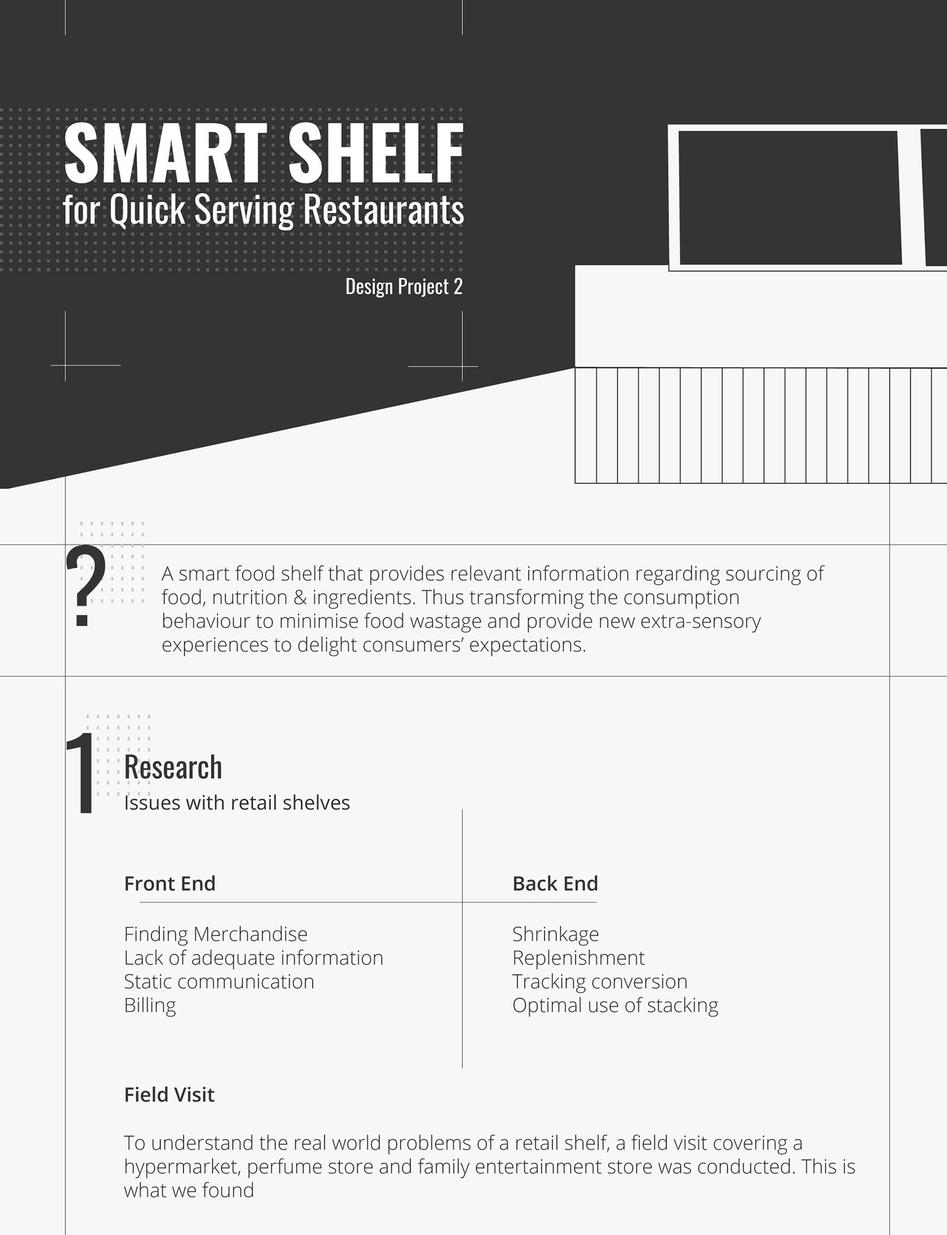
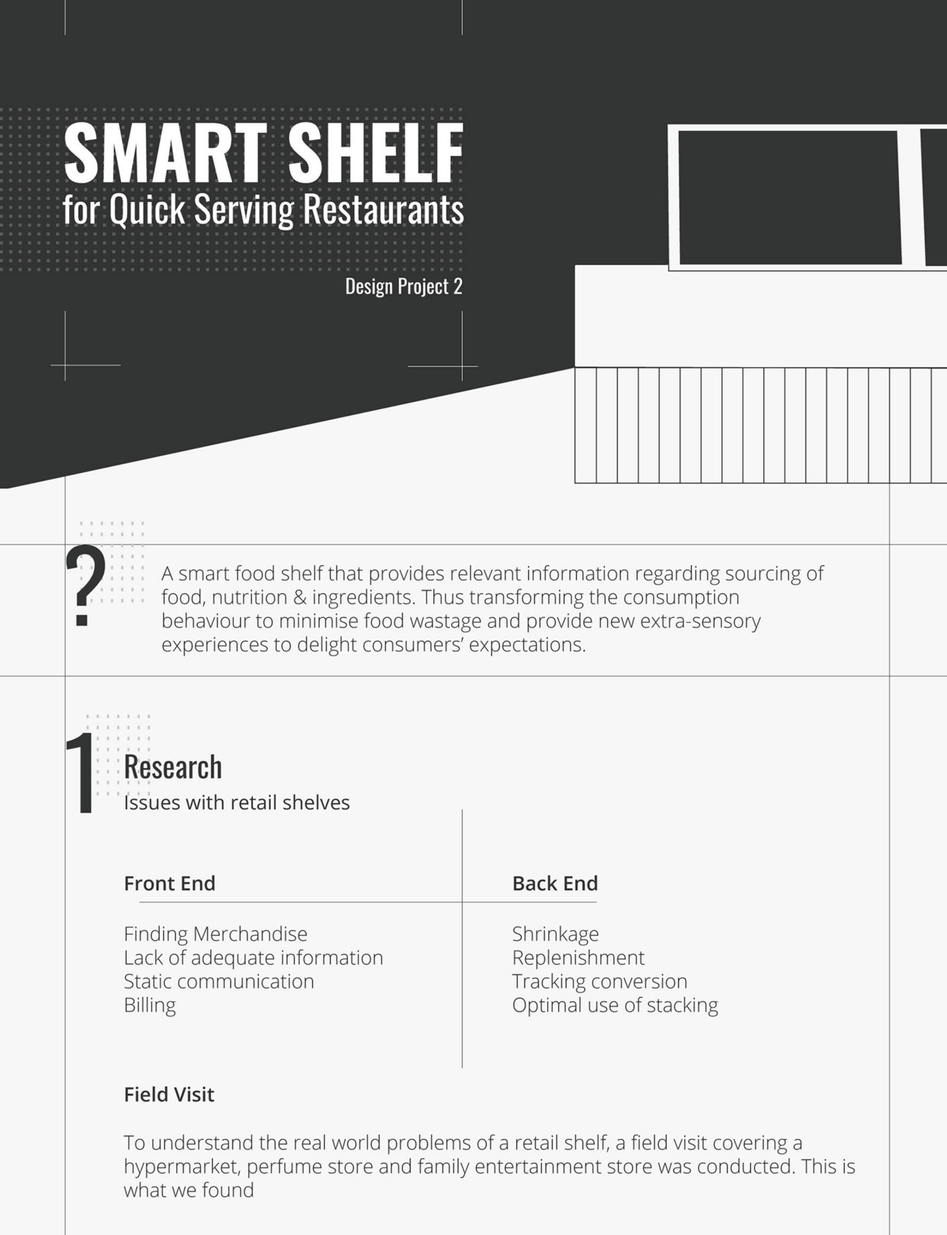
smart shelf rearrange for 1440p

diff --git a/css/smart-shelf.css b/css/smart-shelf.css
@@ -1,1 +1,1 @@
-.version.smart_shelf{color:#00000E;background-color:#D3C0C5;}#page{border-color:#000000;z-index:1;background-image:none;margin-left:auto;margin-right:auto;border-width:0px;background-color:transparent;}#u36178{width:60px;z-index:2;position:relative;min-height:60px;}#u25351{background-color:#F7F7F7;margin-right:-10000px;border-radius:20px;z-index:3;position:relative;}#u25360{background-color:#323434;z-index:4;position:relative;}#u24942-9{vertical-align:top;display:block;z-index:5;position:relative;}#u24973{background-color:transparent;z-index:14;position:relative;}#u24993{background-color:transparent;z-index:16;position:relative;}#u25532{background-color:transparent;z-index:18;position:relative;}#u25674{background-color:transparent;z-index:20;position:relative;}#u25710{background-color:transparent;z-index:22;position:relative;}#u25753{background-color:transparent;z-index:24;position:relative;}#u36427,#u36449,#u36487,#u36525{background-color:transparent;position:relative;}#u28734{margin-right:-10000px;background-color:transparent;position:relative;}.html{background-color:#D8D8D8;}#top,body{position:relative;}@media (min-width: 1921px), print{#muse_css_mq{background-color:#FFFFFF;}#bp_infinity.active{display:block;}#page{width:1920px;min-height:710px;}#pu36178{z-index:2;width:0.01px;margin-right:-10000px;margin-top:-78px;margin-left:25px;}#u36178{margin-left:913px;}#top{margin-left:59px;margin-top:18px;}#pu25351{z-index:3;width:0.01px;margin-top:7px;}#u25351{width:1870px;padding-bottom:3px;}#u28674{z-index:27;width:104px;background-color:transparent;position:relative;margin-right:-10000px;margin-top:25px;left:25px;}#u25360{width:1599px;padding-bottom:121px;margin-right:-10000px;margin-top:-5px;left:134px;}#u24942-9{margin-right:-10000px;margin-top:402px;left:56px;}#u24973{width:1598px;margin-right:-10000px;margin-top:683px;left:135px;}#pu24993{z-index:16;width:0.01px;margin-left:135px;margin-top:-1px;}#u24993{width:1598px;margin-right:-10000px;}#u25532{width:1598px;margin-right:-10000px;margin-top:537px;}#u25674{width:1598px;margin-right:-10000px;margin-top:3878px;}#u25710{width:1598px;margin-right:-10000px;margin-top:3474px;}#u28734{z-index:40;width:180px;-webkit-transform:matrix(0,1,-1,0,177,-3);-ms-transform:matrix(0,1,-1,0,177,-3);transform:matrix(0,1,-1,0,177,-3);margin-top:634px;left:1438px;}#u25753{width:1598px;margin-left:135px;margin-top:3617px;}#pu36427{z-index:29;width:0.01px;margin-left:135px;}#u36427{z-index:29;width:1595px;margin-right:-10000px;}#u36449{z-index:32;width:1595px;margin-right:-10000px;margin-top:2370px;}#u36471{z-index:34;width:768px;min-height:432px;border-width:0px;border-color:transparent;background-color:transparent;position:relative;margin-right:-10000px;margin-top:1999px;left:1302px;}#pu36487{z-index:35;width:0.01px;margin-left:135px;margin-top:86px;}#u36487{z-index:35;width:1595px;margin-right:-10000px;margin-top:383px;}#u36509{z-index:37;width:768px;min-height:432px;border-width:0px;border-color:transparent;background-color:transparent;position:relative;margin-right:-10000px;left:1289px;}#u36525{z-index:38;width:1595px;margin-left:135px;margin-top:436px;}#u26558{z-index:26;width:1800px;min-height:169px;border-width:0px;border-color:transparent;background-color:transparent;position:relative;margin-right:-10000px;margin-top:3157px;left:2305px;}.css_verticalspacer .verticalspacer{height:calc(100vh - 21998px);}body{min-width:1920px;padding-bottom:50px;}}@media (min-width: 1441px) and (max-width: 1920px){#muse_css_mq{background-color:#000780;}#bp_1920.active{display:block;}#page{min-height:710px;width:100%;max-width:1920px;}#pu36178{z-index:2;margin-right:-10000px;margin-top:-78px;width:97.4%;margin-left:1.31%;}#u36178{margin-left:48.83%;}#top{margin-top:18px;margin-left:3.16%;}#pu25351{z-index:3;margin-top:2px;width:100%;}#u25351{padding-bottom:199px;width:100%;}#u28674{z-index:27;background-color:transparent;position:relative;margin-right:-10000px;margin-top:30px;width:5.57%;left:1.34%;}#ppu25360{z-index:0;padding-bottom:0px;margin-right:-10000px;margin-top:5px;width:85.51%;}#pu25360{z-index:4;width:100%;}#u25360{padding-bottom:391px;margin-right:-10000px;width:100%;left:0%;margin-left:8.39%;}#u24942-9{margin-right:-10000px;margin-top:160px;width:82.81%;left:7.32%;}#u24973{margin-right:-10000px;margin-top:443px;width:99.94%;left:0%;margin-left:8.39%;}#u24973_img{padding-bottom:5.819774718397998%;width:100%;}#u24993{margin-right:-10000px;margin-top:2497px;width:99.94%;margin-left:8.51%;left:-2px;}#pu25532{z-index:18;width:99.94%;left:0%;margin-left:8.39%;}#u25532{margin-right:-10000px;width:100%;}#u25674{margin-right:-10000px;margin-top:3341px;width:100%;}#u25710{margin-right:-10000px;margin-top:6554px;width:100%;}#u25753{margin-top:1px;width:99.94%;left:0%;margin-left:8.39%;}#u36427{z-index:29;width:99.75%;left:0%;margin-left:8.45%;}#u36449{z-index:32;width:99.75%;left:0%;margin-left:8.39%;}#u36471{z-index:34;min-height:436px;border-width:0px;border-color:transparent;background-color:transparent;position:relative;width:48.04%;left:0%;margin-left:34.4%;}#u36487{z-index:35;margin-top:32px;width:99.75%;left:0%;margin-left:8.39%;}#u36509{z-index:37;min-height:436px;border-width:0px;border-color:transparent;background-color:transparent;position:relative;width:48.04%;left:0%;margin-left:34.4%;}#u36525{z-index:38;width:99.75%;left:0%;margin-left:8.45%;}#u28734{z-index:40;-webkit-transform:matrix(0,1,-1,0,177,-3);-ms-transform:matrix(0,1,-1,0,177,-3);transform:matrix(0,1,-1,0,177,-3);margin-top:21932px;width:9.63%;left:84.12%;}#u28674_img,#u24993_img,#u25532_img,#u25674_img,#u25710_img,#u25753_img,#u36427_img,#u36449_img,#u36487_img,#u36525_img,#u28734_img{width:100%;}#u26558{z-index:26;min-height:173px;border-width:0px;border-color:transparent;background-color:transparent;position:relative;margin-right:-10000px;margin-top:3157px;width:93.75%;left:120.06%;}.css_verticalspacer .verticalspacer{height:calc(100vh - 22170px);}body{overflow-x:hidden;padding-bottom:24px;}}@media (min-width: 961px) and (max-width: 1440px){#muse_css_mq{background-color:#0005a0;}#bp_1440.active{display:block;}#page{min-height:777px;width:100%;max-width:1440px;}#u36178{margin-right:-10000px;left:51.74%;}#u25351{padding-bottom:20px;margin-top:19px;width:97.44%;left:1.32%;}#u28674{z-index:26;background-color:transparent;position:relative;margin-right:-10000px;margin-top:31px;width:5.56%;left:1.36%;}#ppu25360{z-index:0;margin-right:-10000px;width:85.46%;margin-left:7.2%;}#pu25360{z-index:4;width:100%;}#u25360{padding-bottom:478px;margin-right:-10000px;width:100%;}#u24942-9{margin-right:-10000px;margin-top:98px;width:93.42%;left:5.76%;}#u24973{margin-right:-10000px;margin-top:304px;width:100%;}#u24973_img{width:99.92%;}#u24993{margin-right:-10000px;margin-top:1921px;width:100%;}#pu25532{z-index:18;width:100%;}#u25532{margin-right:-10000px;width:100%;}#u25674{margin-right:-10000px;margin-top:2526px;width:100%;}#u36427{z-index:28;width:99.75%;}#u36471{z-index:33;min-height:436px;border-width:0px;border-color:transparent;background-color:transparent;margin-top:47px;position:relative;width:64.06%;margin-left:18.02%;}#u36449{z-index:31;width:99.75%;}#u36509{z-index:36;min-height:436px;border-width:0px;border-color:transparent;background-color:transparent;position:relative;width:64.06%;margin-left:18.19%;}#u36487{z-index:34;width:99.75%;}#u36525{z-index:37;margin-top:22px;width:99.75%;}#top{margin-right:-10000px;width:22px;left:4.38%;}#u28734{z-index:39;-webkit-transform:matrix(0,1,-1,0,132,-3);-ms-transform:matrix(0,1,-1,0,132,-3);transform:matrix(0,1,-1,0,132,-3);margin-top:14467px;width:9.38%;left:83.2%;}#u28674_img,#u24993_img,#u25532_img,#u25674_img,#u25710,#u25710_img,#u25753,#u25753_img,#u36427_img,#u36449_img,#u36487_img,#u36525_img,#u28734_img{width:100%;}.css_verticalspacer .verticalspacer{height:calc(100vh - 16854px);}body{overflow-x:hidden;padding-bottom:20px;}}@media (min-width: 769px) and (max-width: 960px){#muse_css_mq{background-color:#0003c0;}#bp_960.active{display:block;}#page{min-height:710px;width:100%;max-width:960px;}#page_position_content{margin-top:-66px;width:100%;}#u36178{margin-left:39.07%;}#top{margin-top:6px;margin-left:4.38%;}#pu25351{z-index:3;margin-top:-5px;width:97.4%;margin-left:1.36%;}#u25351{padding-bottom:125px;width:100%;}#u28674{z-index:26;background-color:transparent;position:relative;margin-right:-10000px;margin-top:37px;width:5.57%;left:1.4%;}#ppu25360{z-index:0;margin-right:-10000px;width:85.57%;margin-left:7.17%;}#pu25360{z-index:4;width:100%;}#u25360{padding-bottom:493px;margin-right:-10000px;width:100%;}#u24942-9{margin-right:-10000px;margin-top:85px;width:93.25%;left:3.51%;}#u24973{margin-right:-10000px;margin-top:276px;width:99.88%;}#pu25532{z-index:18;margin-top:1px;width:99.88%;}#u25532{margin-right:-10000px;width:100%;}#u25674{margin-right:-10000px;margin-top:1679px;width:100%;}#u25710{margin-right:-10000px;margin-top:3290px;width:100%;}#u24993,#u25753{width:99.88%;}#u36427{z-index:28;margin-top:7px;width:99.63%;}#u36449{z-index:31;width:99.75%;}#u36471{z-index:33;min-height:436px;border-width:0px;border-color:transparent;background-color:transparent;position:relative;width:96%;margin-left:2%;}#u36487{z-index:34;width:99.75%;}#u36509{z-index:36;min-height:436px;border-width:0px;border-color:transparent;background-color:transparent;position:relative;width:96%;margin-left:2%;}#u36525{z-index:37;width:99.75%;}#u28734{z-index:39;-webkit-transform:matrix(0,1,-1,0,88,-2);-ms-transform:matrix(0,1,-1,0,88,-2);transform:matrix(0,1,-1,0,88,-2);margin-top:11554px;width:9.63%;left:84.07%;}#u28674_img,#u24973_img,#u24993_img,#u25532_img,#u25674_img,#u25710_img,#u25753_img,#u36427_img,#u36449_img,#u36487_img,#u36525_img,#u28734_img{width:100%;}.css_verticalspacer .verticalspacer{height:calc(100vh - 11667px);}body{overflow-x:hidden;padding-bottom:12px;}}@media (min-width: 481px) and (max-width: 768px){#muse_css_mq{background-color:#000300;}#bp_768.active{display:block;}#page{min-height:710px;width:100%;max-width:768px;}#u36178{margin-right:-10000px;left:51.7%;}#u25351{padding-bottom:0px;margin-top:10px;width:97.4%;left:1.31%;}#u25351_position_content{padding-bottom:62px;width:100%;}#pu28674{z-index:26;width:91.32%;margin-left:1.34%;}#u28674{z-index:26;background-color:transparent;position:relative;margin-right:-10000px;margin-top:40px;width:6.15%;}#u25360{padding-bottom:1px;margin-right:-10000px;width:93.71%;left:6.45%;}#u25360_position_content{margin-bottom:-395px;padding-top:57px;width:100%;}#u24942-9{width:93.29%;margin-left:3.44%;}#u24973{margin-top:45px;width:99.85%;}#u24993{margin-top:395px;width:85.43%;margin-left:7.22%;}#u25532{top:-1px;margin-bottom:-1px;width:85.43%;margin-left:7.22%;}#u25674,#u25710{top:-7px;margin-bottom:-7px;width:85.43%;margin-left:7.22%;}#u25710_img{width:100.16%;}#u25753{width:85.43%;margin-left:7.22%;}#u36427{z-index:28;width:85.3%;margin-left:7.22%;}#u36471{z-index:33;min-height:436px;border-width:0px;border-color:transparent;background-color:transparent;margin-top:1px;position:relative;width:102.68%;left:-1.34%;}#u36449{z-index:31;width:85.3%;margin-left:7.22%;}#u36509{z-index:36;min-height:436px;border-width:0px;border-color:transparent;background-color:transparent;position:relative;width:102.68%;left:-1.34%;}#u36487{z-index:34;margin-top:1px;width:85.3%;margin-left:7.22%;}#u36525{z-index:37;width:85.3%;margin-left:7.22%;}#top{margin-right:-10000px;width:22px;left:4.3%;}#u28734{z-index:39;-webkit-transform:matrix(0,1,-1,0,71,-1);-ms-transform:matrix(0,1,-1,0,71,-1);transform:matrix(0,1,-1,0,71,-1);margin-top:8021px;width:9.38%;left:80.21%;}#u28674_img,#u24973_img,#u24993_img,#u25532_img,#u25674_img,#u25753_img,#u36427_img,#u36449_img,#u36487_img,#u36525_img,#u28734_img{width:100%;}.css_verticalspacer .verticalspacer{height:calc(100vh - 9506px);}body{overflow-x:hidden;padding-bottom:11px;}}@media (min-width: 321px) and (max-width: 480px){#muse_css_mq{background-color:#0001e0;}#bp_480.active{display:block;}#page{min-height:455px;width:100%;max-width:480px;}#u36178{margin-right:-10000px;left:51.67%;}#u25351{padding-bottom:79.31289062500491px;margin-top:12px;width:95%;left:2.5%;}#u25360{padding-bottom:0px;width:87.72%;margin-left:6.15%;}#u25360_position_content{margin-bottom:-97px;padding-top:18px;width:100%;}#u28696{z-index:26;background-color:transparent;position:relative;width:12.5%;}#u24942-9{margin-top:19px;width:93.25%;margin-left:3.51%;}#u24973{margin-top:77px;width:100%;}#u24973_img{width:99.75%;}#u24993{margin-top:97px;width:87.72%;margin-left:6.15%;}#u25674{margin-top:1px;width:87.72%;margin-left:6.15%;}#u25710{top:-2px;margin-bottom:-2px;width:87.72%;margin-left:6.15%;}#u25532,#u25753{width:87.72%;margin-left:6.15%;}#u36427{z-index:28;top:-4px;margin-bottom:-4px;width:87.5%;margin-left:6.15%;}#u36449{z-index:31;width:87.5%;margin-left:5.93%;}#u36563{z-index:40;min-height:172px;border-width:0px;border-color:transparent;background-color:transparent;margin-top:5px;position:relative;width:65.79%;margin-left:17.11%;}#u36487{z-index:33;width:87.5%;margin-left:6.15%;}#u36547{z-index:39;min-height:172px;border-width:0px;border-color:transparent;background-color:transparent;margin-top:4px;position:relative;width:65.79%;margin-left:17.11%;}#u36525{z-index:35;width:87.5%;margin-left:6.15%;}#top{margin-right:-10000px;width:22px;left:4.38%;}#u28734{z-index:37;-webkit-transform:matrix(0,1,-1,0,44,-1);-ms-transform:matrix(0,1,-1,0,44,-1);transform:matrix(0,1,-1,0,44,-1);margin-top:5848px;width:9.38%;left:83.13%;}#u28696_img,#u24993_img,#u25532_img,#u25674_img,#u25710_img,#u25753_img,#u36427_img,#u36449_img,#u36487_img,#u36525_img,#u28734_img{width:100%;}.css_verticalspacer .verticalspacer{height:calc(100vh - 5922px);}body{overflow-x:hidden;padding-bottom:10px;}}@media (max-width: 320px){#muse_css_mq{background-color:#000140;}#bp_320.active{display:block;}#page{min-height:680px;width:100%;max-width:320px;}#u36178{margin-right:-10000px;left:51.88%;}#u25351{margin-top:-466px;width:93.75%;left:3.13%;}#u25351_position_content{padding-top:466px;padding-bottom:20px;width:100%;}#top{margin-left:1.34%;}#u25360{top:-8px;margin-bottom:-8px;width:89%;margin-left:5.67%;}#u25360_position_content{margin-bottom:-31px;padding-top:10px;width:100%;}#u28715{z-index:26;background-color:transparent;position:relative;width:11.24%;margin-left:1.13%;}#u24942-9{margin-top:20px;width:92.89%;margin-left:3.38%;}#u24973{margin-top:50px;width:99.63%;}#u24993{margin-top:10px;width:99.63%;}#u25532{margin-top:31px;width:88.67%;margin-left:5.67%;}#u25674,#u25710{width:88.67%;margin-left:5.67%;}#u25753{margin-top:2px;width:88.67%;margin-left:5.67%;}#u36427{z-index:28;margin-top:1px;width:88.67%;margin-left:5.67%;}#u36449{z-index:31;width:88.67%;margin-left:5.67%;}#u36579{z-index:39;min-height:172px;border-width:0px;border-color:transparent;background-color:transparent;top:-6px;margin-bottom:-6px;position:relative;width:100%;}#u36487{z-index:33;top:-8px;margin-bottom:-8px;width:88.67%;margin-left:5.67%;}#pu36525{z-index:35;margin-top:2px;width:100%;}#u36525{z-index:35;margin-right:-10000px;margin-top:156px;width:88.67%;left:5.67%;}#u36595{z-index:40;min-height:172px;border-width:0px;border-color:transparent;background-color:transparent;position:relative;margin-right:-10000px;width:100%;}#u28734{z-index:37;-webkit-transform:matrix(0,1,-1,0,29,-1);-ms-transform:matrix(0,1,-1,0,29,-1);transform:matrix(0,1,-1,0,29,-1);margin-top:4005px;width:9.38%;left:83.13%;}#u28715_img,#u24973_img,#u24993_img,#u25532_img,#u25674_img,#u25710_img,#u25753_img,#u36427_img,#u36449_img,#u36487_img,#u36525_img,#u28734_img{width:100%;}.css_verticalspacer .verticalspacer{height:calc(100vh - 4063px);}body{overflow-x:hidden;min-width:320px;padding-bottom:10px;}}
+.version.smart_shelf{color:#0000FB;background-color:#9A247F;}#page{border-width:0px;margin-left:auto;background-color:transparent;z-index:1;background-image:none;margin-right:auto;border-color:#000000;}#u36178{min-height:60px;z-index:2;width:60px;position:relative;}#u25351{background-color:#F7F7F7;z-index:3;border-radius:20px;position:relative;margin-right:-10000px;}#u25360{background-color:#323434;z-index:4;position:relative;}#u24942-9{vertical-align:top;display:block;z-index:5;position:relative;}#u24973{background-color:transparent;position:relative;z-index:14;}#u24993{background-color:transparent;z-index:16;position:relative;}#u25532{background-color:transparent;position:relative;z-index:18;}#u25674{background-color:transparent;position:relative;z-index:20;}#u25710{background-color:transparent;position:relative;z-index:22;}#u25753{background-color:transparent;position:relative;z-index:24;}#u36427,#u36449,#u36487,#u36525{position:relative;background-color:transparent;}#u28734{background-color:transparent;position:relative;margin-right:-10000px;}.html{background-color:#D8D8D8;}#top,body{position:relative;}@media (min-width: 1921px), print{#muse_css_mq{background-color:#FFFFFF;}#bp_infinity.active{display:block;}#page{width:1920px;min-height:710px;}#pu36178{z-index:2;width:0.01px;margin-right:-10000px;margin-top:-78px;margin-left:25px;}#u36178{margin-left:913px;}#top{margin-left:59px;margin-top:18px;}#pu25351{z-index:3;width:0.01px;margin-top:7px;}#u25351{width:1870px;padding-bottom:3px;}#u28674{z-index:27;width:104px;background-color:transparent;position:relative;margin-right:-10000px;margin-top:25px;left:25px;}#u25360{width:1599px;padding-bottom:121px;margin-right:-10000px;margin-top:-5px;left:134px;}#u24942-9{margin-right:-10000px;margin-top:402px;left:56px;}#u24973{width:1598px;margin-right:-10000px;margin-top:683px;left:135px;}#pu24993{z-index:16;width:0.01px;margin-left:135px;margin-top:-1px;}#u24993{width:1598px;margin-right:-10000px;}#u25532{width:1598px;margin-right:-10000px;margin-top:537px;}#u25674{width:1598px;margin-right:-10000px;margin-top:3878px;}#u25710{width:1598px;margin-right:-10000px;margin-top:3474px;}#u28734{z-index:40;width:180px;-webkit-transform:matrix(0,1,-1,0,177,-3);-ms-transform:matrix(0,1,-1,0,177,-3);transform:matrix(0,1,-1,0,177,-3);margin-top:634px;left:1438px;}#u25753{width:1598px;margin-left:135px;margin-top:3617px;}#pu36427{z-index:29;width:0.01px;margin-left:135px;}#u36427{z-index:29;width:1595px;margin-right:-10000px;}#u36449{z-index:32;width:1595px;margin-right:-10000px;margin-top:2370px;}#u36471{z-index:34;width:768px;min-height:432px;border-width:0px;border-color:transparent;background-color:transparent;position:relative;margin-right:-10000px;margin-top:1999px;left:1302px;}#pu36487{z-index:35;width:0.01px;margin-left:135px;margin-top:86px;}#u36487{z-index:35;width:1595px;margin-right:-10000px;margin-top:383px;}#u36509{z-index:37;width:768px;min-height:432px;border-width:0px;border-color:transparent;background-color:transparent;position:relative;margin-right:-10000px;left:1289px;}#u36525{z-index:38;width:1595px;margin-left:135px;margin-top:436px;}#u26558{z-index:26;width:1800px;min-height:169px;border-width:0px;border-color:transparent;background-color:transparent;position:relative;margin-right:-10000px;margin-top:3157px;left:2305px;}.css_verticalspacer .verticalspacer{height:calc(100vh - 21998px);}body{min-width:1920px;padding-bottom:50px;}}@media (min-width: 1441px) and (max-width: 1920px){#muse_css_mq{background-color:#000780;}#bp_1920.active{display:block;}#page{min-height:710px;width:100%;max-width:1920px;}#pu36178{z-index:2;margin-right:-10000px;margin-top:-78px;width:97.4%;margin-left:1.31%;}#u36178{margin-left:48.83%;}#top{margin-top:18px;margin-left:3.16%;}#pu25351{z-index:3;margin-top:2px;width:100%;}#u25351{padding-bottom:199px;width:100%;}#u28674{z-index:27;background-color:transparent;position:relative;margin-right:-10000px;margin-top:30px;width:5.57%;left:1.34%;}#ppu25360{z-index:0;padding-bottom:0px;margin-right:-10000px;margin-top:5px;width:85.51%;}#pu25360{z-index:4;width:100%;}#u25360{padding-bottom:391px;margin-right:-10000px;width:100%;left:0%;margin-left:8.39%;}#u24942-9{margin-right:-10000px;margin-top:160px;width:82.81%;left:7.32%;}#u24973{margin-right:-10000px;margin-top:443px;width:99.94%;left:0%;margin-left:8.39%;}#u24973_img{padding-bottom:5.819774718397998%;width:100%;}#u24993{margin-right:-10000px;margin-top:2497px;width:99.94%;margin-left:8.51%;left:-2px;}#pu25532{z-index:18;width:99.94%;left:0%;margin-left:8.39%;}#u25532{margin-right:-10000px;width:100%;}#u25674{margin-right:-10000px;margin-top:3341px;width:100%;}#u25710{margin-right:-10000px;margin-top:6554px;width:100%;}#u25753{margin-top:1px;width:99.94%;left:0%;margin-left:8.39%;}#u36427{z-index:29;width:99.75%;left:0%;margin-left:8.45%;}#u36449{z-index:32;width:99.75%;left:0%;margin-left:8.39%;}#u36471{z-index:34;min-height:436px;border-width:0px;border-color:transparent;background-color:transparent;position:relative;width:48.04%;left:0%;margin-left:34.4%;}#u36487{z-index:35;margin-top:32px;width:99.75%;left:0%;margin-left:8.39%;}#u36509{z-index:37;min-height:436px;border-width:0px;border-color:transparent;background-color:transparent;position:relative;width:48.04%;left:0%;margin-left:34.4%;}#u36525{z-index:38;width:99.75%;left:0%;margin-left:8.45%;}#u28734{z-index:40;-webkit-transform:matrix(0,1,-1,0,177,-3);-ms-transform:matrix(0,1,-1,0,177,-3);transform:matrix(0,1,-1,0,177,-3);margin-top:21932px;width:9.63%;left:84.12%;}#u28674_img,#u24993_img,#u25532_img,#u25674_img,#u25710_img,#u25753_img,#u36427_img,#u36449_img,#u36487_img,#u36525_img,#u28734_img{width:100%;}#u26558{z-index:26;min-height:173px;border-width:0px;border-color:transparent;background-color:transparent;position:relative;margin-right:-10000px;margin-top:3157px;width:93.75%;left:120.06%;}.css_verticalspacer .verticalspacer{height:calc(100vh - 22170px);}body{overflow-x:hidden;padding-bottom:24px;}}@media (min-width: 961px) and (max-width: 1440px){#muse_css_mq{background-color:#0005a0;}#bp_1440.active{display:block;}#page{min-height:777px;width:100%;max-width:1440px;}#u36178{margin-right:-10000px;left:51.74%;}#u25351{padding-bottom:20px;margin-top:19px;width:97.44%;left:1.32%;}#u28674{z-index:26;background-color:transparent;position:relative;margin-right:-10000px;margin-top:31px;width:5.56%;left:1.36%;}#ppu25360{z-index:0;margin-right:-10000px;width:85.46%;margin-left:7.2%;}#pu25360{z-index:4;width:100%;}#u25360{padding-bottom:478px;margin-right:-10000px;width:100%;}#u24942-9{margin-right:-10000px;margin-top:98px;width:93.42%;left:5.76%;}#u24973{margin-right:-10000px;margin-top:304px;width:100%;}#u24973_img{width:99.92%;}#u24993{margin-right:-10000px;margin-top:1921px;width:100%;}#pu25532{z-index:18;width:100%;}#u25532{margin-right:-10000px;width:100%;}#u25674{margin-right:-10000px;margin-top:2526px;width:100%;}#u36427{z-index:28;width:99.75%;}#pu36449{z-index:31;width:99.75%;}#u36449{z-index:31;margin-right:-10000px;width:100%;}#u36471{z-index:33;min-height:436px;border-width:0px;border-color:transparent;background-color:transparent;position:relative;margin-right:-10000px;margin-top:280px;width:64.22%;left:17.98%;}#pu36487{z-index:34;margin-top:10px;width:99.75%;}#u36487{z-index:34;margin-right:-10000px;width:100%;}#u36509{z-index:36;min-height:436px;border-width:0px;border-color:transparent;background-color:transparent;position:relative;margin-right:-10000px;margin-top:280px;width:64.22%;left:18.15%;}#u36525{z-index:37;margin-top:79px;width:99.75%;}#top{margin-right:-10000px;width:22px;left:4.38%;}#u28734{z-index:39;-webkit-transform:matrix(0,1,-1,0,132,-3);-ms-transform:matrix(0,1,-1,0,132,-3);transform:matrix(0,1,-1,0,132,-3);margin-top:14467px;width:9.38%;left:83.2%;}#u28674_img,#u24993_img,#u25532_img,#u25674_img,#u25710,#u25710_img,#u25753,#u25753_img,#u36427_img,#u36449_img,#u36487_img,#u36525_img,#u28734_img{width:100%;}.css_verticalspacer .verticalspacer{height:calc(100vh - 16854px);}body{overflow-x:hidden;padding-bottom:20px;}}@media (min-width: 769px) and (max-width: 960px){#muse_css_mq{background-color:#0003c0;}#bp_960.active{display:block;}#page{min-height:710px;width:100%;max-width:960px;}#page_position_content{margin-top:-66px;width:100%;}#u36178{margin-left:39.07%;}#top{margin-top:6px;margin-left:4.38%;}#pu25351{z-index:3;margin-top:-5px;width:97.4%;margin-left:1.36%;}#u25351{padding-bottom:125px;width:100%;}#u28674{z-index:26;background-color:transparent;position:relative;margin-right:-10000px;margin-top:37px;width:5.57%;left:1.4%;}#ppu25360{z-index:0;margin-right:-10000px;width:85.57%;margin-left:7.17%;}#pu25360{z-index:4;width:100%;}#u25360{padding-bottom:493px;margin-right:-10000px;width:100%;}#u24942-9{margin-right:-10000px;margin-top:85px;width:93.25%;left:3.51%;}#u24973{margin-right:-10000px;margin-top:276px;width:99.88%;}#pu25532{z-index:18;margin-top:1px;width:99.88%;}#u25532{margin-right:-10000px;width:100%;}#u25674{margin-right:-10000px;margin-top:1679px;width:100%;}#u25710{margin-right:-10000px;margin-top:3290px;width:100%;}#u24993,#u25753{width:99.88%;}#u36427{z-index:28;margin-top:7px;width:99.63%;}#u36449{z-index:31;width:99.75%;}#u36471{z-index:33;min-height:436px;border-width:0px;border-color:transparent;background-color:transparent;position:relative;width:96%;margin-left:2%;}#u36487{z-index:34;width:99.75%;}#u36509{z-index:36;min-height:436px;border-width:0px;border-color:transparent;background-color:transparent;position:relative;width:96%;margin-left:2%;}#u36525{z-index:37;width:99.75%;}#u28734{z-index:39;-webkit-transform:matrix(0,1,-1,0,88,-2);-ms-transform:matrix(0,1,-1,0,88,-2);transform:matrix(0,1,-1,0,88,-2);margin-top:11554px;width:9.63%;left:84.07%;}#u28674_img,#u24973_img,#u24993_img,#u25532_img,#u25674_img,#u25710_img,#u25753_img,#u36427_img,#u36449_img,#u36487_img,#u36525_img,#u28734_img{width:100%;}.css_verticalspacer .verticalspacer{height:calc(100vh - 11667px);}body{overflow-x:hidden;padding-bottom:12px;}}@media (min-width: 481px) and (max-width: 768px){#muse_css_mq{background-color:#000300;}#bp_768.active{display:block;}#page{min-height:710px;width:100%;max-width:768px;}#u36178{margin-right:-10000px;left:51.7%;}#u25351{padding-bottom:0px;margin-top:10px;width:97.4%;left:1.31%;}#u25351_position_content{padding-bottom:62px;width:100%;}#pu28674{z-index:26;width:91.32%;margin-left:1.34%;}#u28674{z-index:26;background-color:transparent;position:relative;margin-right:-10000px;margin-top:40px;width:6.15%;}#u25360{padding-bottom:1px;margin-right:-10000px;width:93.71%;left:6.45%;}#u25360_position_content{margin-bottom:-395px;padding-top:57px;width:100%;}#u24942-9{width:93.29%;margin-left:3.44%;}#u24973{margin-top:45px;width:99.85%;}#u24993{margin-top:395px;width:85.43%;margin-left:7.22%;}#u25532{top:-1px;margin-bottom:-1px;width:85.43%;margin-left:7.22%;}#u25674,#u25710{top:-7px;margin-bottom:-7px;width:85.43%;margin-left:7.22%;}#u25710_img{width:100.16%;}#u25753{width:85.43%;margin-left:7.22%;}#u36427{z-index:28;width:85.3%;margin-left:7.22%;}#u36471{z-index:33;min-height:436px;border-width:0px;border-color:transparent;background-color:transparent;margin-top:1px;position:relative;width:102.68%;left:-1.34%;}#u36449{z-index:31;width:85.3%;margin-left:7.22%;}#u36509{z-index:36;min-height:436px;border-width:0px;border-color:transparent;background-color:transparent;position:relative;width:102.68%;left:-1.34%;}#u36487{z-index:34;margin-top:1px;width:85.3%;margin-left:7.22%;}#u36525{z-index:37;width:85.3%;margin-left:7.22%;}#top{margin-right:-10000px;width:22px;left:4.3%;}#u28734{z-index:39;-webkit-transform:matrix(0,1,-1,0,71,-1);-ms-transform:matrix(0,1,-1,0,71,-1);transform:matrix(0,1,-1,0,71,-1);margin-top:8021px;width:9.38%;left:80.21%;}#u28674_img,#u24973_img,#u24993_img,#u25532_img,#u25674_img,#u25753_img,#u36427_img,#u36449_img,#u36487_img,#u36525_img,#u28734_img{width:100%;}.css_verticalspacer .verticalspacer{height:calc(100vh - 9506px);}body{overflow-x:hidden;padding-bottom:11px;}}@media (min-width: 321px) and (max-width: 480px){#muse_css_mq{background-color:#0001e0;}#bp_480.active{display:block;}#page{min-height:455px;width:100%;max-width:480px;}#u36178{margin-right:-10000px;left:51.67%;}#u25351{padding-bottom:79.31289062500491px;margin-top:12px;width:95%;left:2.5%;}#u25360{padding-bottom:0px;width:87.72%;margin-left:6.15%;}#u25360_position_content{margin-bottom:-97px;padding-top:18px;width:100%;}#u28696{z-index:26;background-color:transparent;position:relative;width:12.5%;}#u24942-9{margin-top:19px;width:93.25%;margin-left:3.51%;}#u24973{margin-top:77px;width:100%;}#u24973_img{width:99.75%;}#u24993{margin-top:97px;width:87.72%;margin-left:6.15%;}#u25674{margin-top:1px;width:87.72%;margin-left:6.15%;}#u25710{top:-2px;margin-bottom:-2px;width:87.72%;margin-left:6.15%;}#u25532,#u25753{width:87.72%;margin-left:6.15%;}#u36427{z-index:28;top:-4px;margin-bottom:-4px;width:87.5%;margin-left:6.15%;}#u36449{z-index:31;width:87.5%;margin-left:5.93%;}#u36563{z-index:40;min-height:172px;border-width:0px;border-color:transparent;background-color:transparent;margin-top:5px;position:relative;width:65.79%;margin-left:17.11%;}#u36487{z-index:33;width:87.5%;margin-left:6.15%;}#u36547{z-index:39;min-height:172px;border-width:0px;border-color:transparent;background-color:transparent;margin-top:4px;position:relative;width:65.79%;margin-left:17.11%;}#u36525{z-index:35;width:87.5%;margin-left:6.15%;}#top{margin-right:-10000px;width:22px;left:4.38%;}#u28734{z-index:37;-webkit-transform:matrix(0,1,-1,0,44,-1);-ms-transform:matrix(0,1,-1,0,44,-1);transform:matrix(0,1,-1,0,44,-1);margin-top:5848px;width:9.38%;left:83.13%;}#u28696_img,#u24993_img,#u25532_img,#u25674_img,#u25710_img,#u25753_img,#u36427_img,#u36449_img,#u36487_img,#u36525_img,#u28734_img{width:100%;}.css_verticalspacer .verticalspacer{height:calc(100vh - 5922px);}body{overflow-x:hidden;padding-bottom:10px;}}@media (max-width: 320px){#muse_css_mq{background-color:#000140;}#bp_320.active{display:block;}#page{min-height:680px;width:100%;max-width:320px;}#u36178{margin-right:-10000px;left:51.88%;}#u25351{margin-top:-466px;width:93.75%;left:3.13%;}#u25351_position_content{padding-top:466px;padding-bottom:20px;width:100%;}#top{margin-left:1.34%;}#u25360{top:-8px;margin-bottom:-8px;width:89%;margin-left:5.67%;}#u25360_position_content{margin-bottom:-31px;padding-top:10px;width:100%;}#u28715{z-index:26;background-color:transparent;position:relative;width:11.24%;margin-left:1.13%;}#u24942-9{margin-top:20px;width:92.89%;margin-left:3.38%;}#u24973{margin-top:50px;width:99.63%;}#u24993{margin-top:10px;width:99.63%;}#u25532{margin-top:31px;width:88.67%;margin-left:5.67%;}#u25674,#u25710{width:88.67%;margin-left:5.67%;}#u25753{margin-top:2px;width:88.67%;margin-left:5.67%;}#u36427{z-index:28;margin-top:1px;width:88.67%;margin-left:5.67%;}#u36449{z-index:31;width:88.67%;margin-left:5.67%;}#u36579{z-index:39;min-height:172px;border-width:0px;border-color:transparent;background-color:transparent;top:-6px;margin-bottom:-6px;position:relative;width:100%;}#u36487{z-index:33;top:-8px;margin-bottom:-8px;width:88.67%;margin-left:5.67%;}#pu36525{z-index:35;margin-top:2px;width:100%;}#u36525{z-index:35;margin-right:-10000px;margin-top:156px;width:88.67%;left:5.67%;}#u36595{z-index:40;min-height:172px;border-width:0px;border-color:transparent;background-color:transparent;position:relative;margin-right:-10000px;width:100%;}#u28734{z-index:37;-webkit-transform:matrix(0,1,-1,0,29,-1);-ms-transform:matrix(0,1,-1,0,29,-1);transform:matrix(0,1,-1,0,29,-1);margin-top:4005px;width:9.38%;left:83.13%;}#u28715_img,#u24973_img,#u24993_img,#u25532_img,#u25674_img,#u25710_img,#u25753_img,#u36427_img,#u36449_img,#u36487_img,#u36525_img,#u28734_img{width:100%;}.css_verticalspacer .verticalspacer{height:calc(100vh - 4063px);}body{overflow-x:hidden;min-width:320px;padding-bottom:10px;}}

diff --git a/smart-shelf.html b/smart-shelf.html
@@ -18,8 +18,8 @@ if(typeof Muse == "undefined") window.Muse = {}; window.Muse.assets = {"required
   <title>Smart Shelf</title>
   <!-- CSS -->
   <link rel="stylesheet" type="text/css" href="css/site_global.css?crc=444006867"/>
-  <link rel="stylesheet" type="text/css" href="css/master_projects.css?crc=3852109067"/>
-  <link rel="stylesheet" type="text/css" href="css/smart-shelf.css?crc=248758469" id="pagesheet"/>
+  <link rel="stylesheet" type="text/css" href="css/master_projects.css?crc=298681692"/>
+  <link rel="stylesheet" type="text/css" href="css/smart-shelf.css?crc=4221183103" id="pagesheet"/>
   <!-- IE-only CSS -->
   <!--[if lt IE 9]>
   <link rel="stylesheet" type="text/css" href="css/nomq_preview_master_projects.css?crc=3824530138"/>
@@ -117,7 +117,7 @@ if(typeof Muse == "undefined") window.Muse = {}; window.Muse.assets = {"required
           <img class="grpelem temp_no_id temp_no_img_src" alt="Module: Design Project 2 Duration: 8 weeks This project was done in collaboration with Akshay Khurana from Interaction Design" data-orig-src="images/u24942-92.png?crc=3996922334" data-hidpi-src="images/u24942-9_2x2.png?crc=282987054" data-image-width="1324" data-orig-id="u24942-9" src="images/blank.gif?crc=4208392903"/><!-- rasterized frame -->
          </div>
          <div class="clip_frame grpelem temp_no_id" data-orig-id="u24973"><!-- image -->
-          <img class="block temp_no_id temp_no_img_src" data-orig-src="images/1-crop-u24973.jpg?crc=3765176822" alt="" data-heightwidthratio="1.3035043804755946" data-image-width="1598" data-image-height="2083" data-orig-id="u24973_img" src="images/blank.gif?crc=4208392903"/>
+          <img class="block temp_no_id temp_no_img_src" data-orig-src="images/1-crop-u24973.jpg?crc=202208358" alt="" data-heightwidthratio="1.3035043804755946" data-image-width="1598" data-image-height="2083" data-orig-id="u24973_img" src="images/blank.gif?crc=4208392903"/>
          </div>
          <div class="clip_frame grpelem temp_no_id" data-sizePolicy="fluidWidthHeight" data-pintopage="page_fixedCenter" data-orig-id="u24993"><!-- image -->
           <img class="block temp_no_id temp_no_img_src" data-orig-src="images/clutter.gif?crc=3864910325" alt="" data-heightwidthratio="0.5625782227784731" data-image-width="1598" data-image-height="899" data-orig-id="u24993_img" src="images/blank.gif?crc=4208392903"/>
@@ -192,13 +192,17 @@ if(typeof Muse == "undefined") window.Muse = {}; window.Muse.assets = {"required
       <div class="clip_frame colelem temp_no_id" data-orig-id="u36427"><!-- image -->
        <img class="block temp_no_id temp_no_img_src" data-orig-src="images/61196x1778.jpg?crc=530476230" alt="" data-heightwidthratio="1.4866220735785953" data-image-width="1196" data-image-height="1778" data-orig-id="u36427_img" src="images/blank.gif?crc=4208392903"/>
       </div>
-      <span class="colelem placeholder" data-placeholder-for="u36471_content"><!-- placeholder node --></span>
-      <div class="clip_frame colelem temp_no_id" data-orig-id="u36449"><!-- image -->
-       <img class="block temp_no_id temp_no_img_src" data-orig-src="images/71197x290.jpg?crc=136002439" alt="" data-heightwidthratio="0.24247491638795987" data-image-width="1196" data-image-height="290" data-orig-id="u36449_img" src="images/blank.gif?crc=4208392903"/>
+      <div class="clearfix colelem" id="pu36449"><!-- group -->
+       <div class="clip_frame grpelem temp_no_id" data-orig-id="u36449"><!-- image -->
+        <img class="block temp_no_id temp_no_img_src" data-orig-src="images/71197x290.jpg?crc=136002439" alt="" data-heightwidthratio="0.24247491638795987" data-image-width="1196" data-image-height="290" data-orig-id="u36449_img" src="images/blank.gif?crc=4208392903"/>
+       </div>
+       <span class="grpelem placeholder" data-placeholder-for="u36471_content"><!-- placeholder node --></span>
       </div>
-      <span class="colelem placeholder" data-placeholder-for="u36509_content"><!-- placeholder node --></span>
-      <div class="clip_frame colelem temp_no_id" data-orig-id="u36487"><!-- image -->
-       <img class="block temp_no_id temp_no_img_src" data-orig-src="images/81197x290.jpg?crc=452143797" alt="" data-heightwidthratio="0.24247491638795987" data-image-width="1196" data-image-height="290" data-orig-id="u36487_img" src="images/blank.gif?crc=4208392903"/>
+      <div class="clearfix colelem temp_no_id" data-orig-id="pu36487"><!-- group -->
+       <div class="clip_frame grpelem temp_no_id" data-orig-id="u36487"><!-- image -->
+        <img class="block temp_no_id temp_no_img_src" data-orig-src="images/81197x290.jpg?crc=452143797" alt="" data-heightwidthratio="0.24247491638795987" data-image-width="1196" data-image-height="290" data-orig-id="u36487_img" src="images/blank.gif?crc=4208392903"/>
+       </div>
+       <span class="grpelem placeholder" data-placeholder-for="u36509_content"><!-- placeholder node --></span>
       </div>
       <div class="clip_frame colelem temp_no_id" data-orig-id="u36525"><!-- image -->
        <img class="block temp_no_id temp_no_img_src" data-orig-src="images/91197x634.jpg?crc=3771721232" alt="" data-heightwidthratio="0.5301003344481605" data-image-width="1196" data-image-height="634" data-orig-id="u36525_img" src="images/blank.gif?crc=4208392903"/>

diff --git a/css/master_projects.css b/css/master_projects.css
@@ -1,1 +1,1 @@
-#u36178{border-width:0px;border-color:transparent;background-color:transparent;}
+#u36178{border-width:0px;background-color:transparent;border-color:transparent;}
